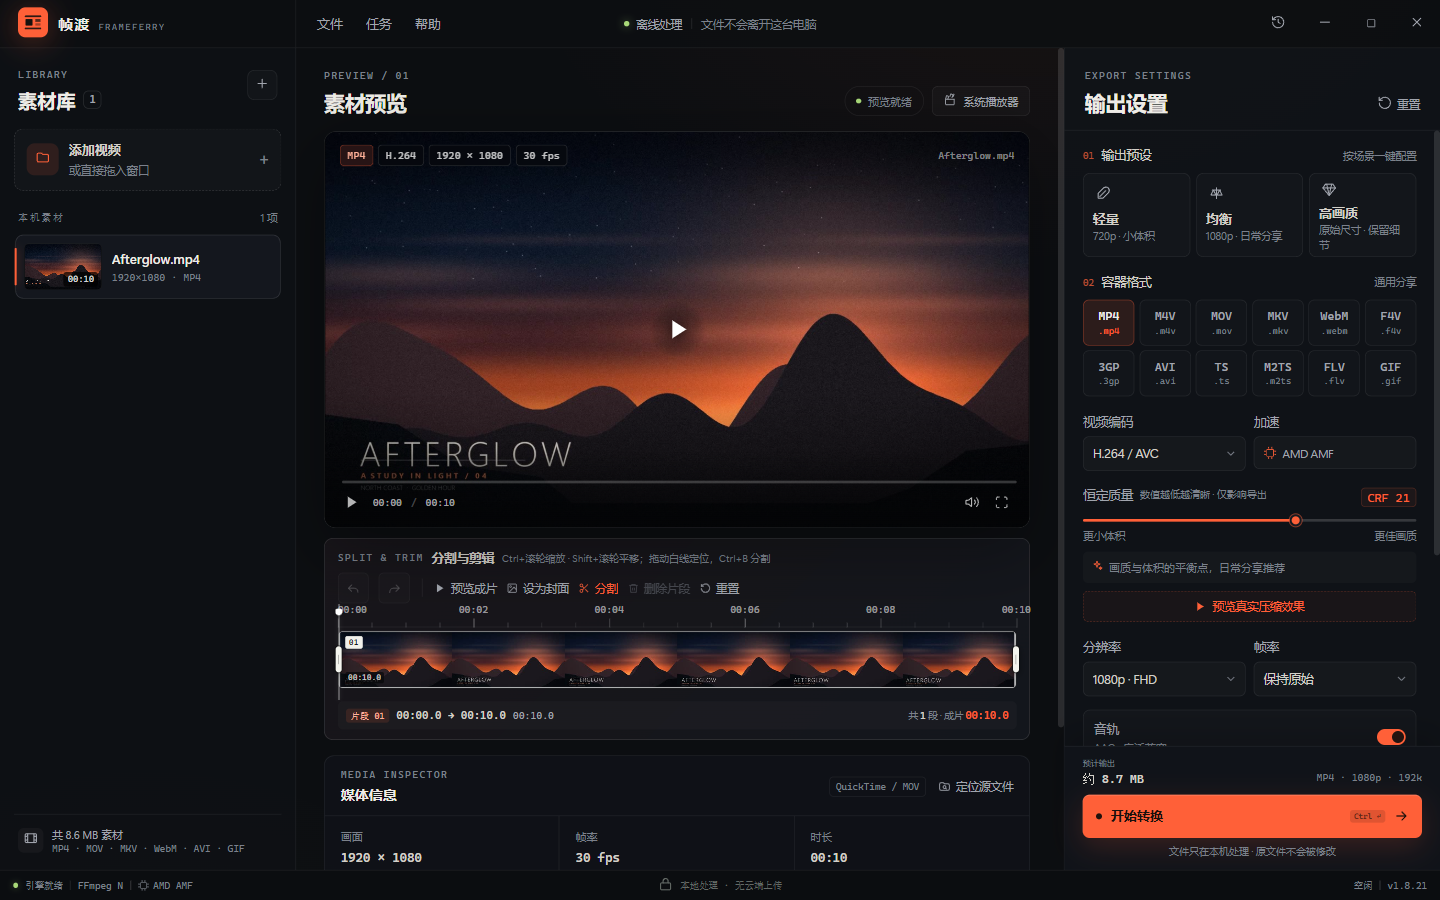
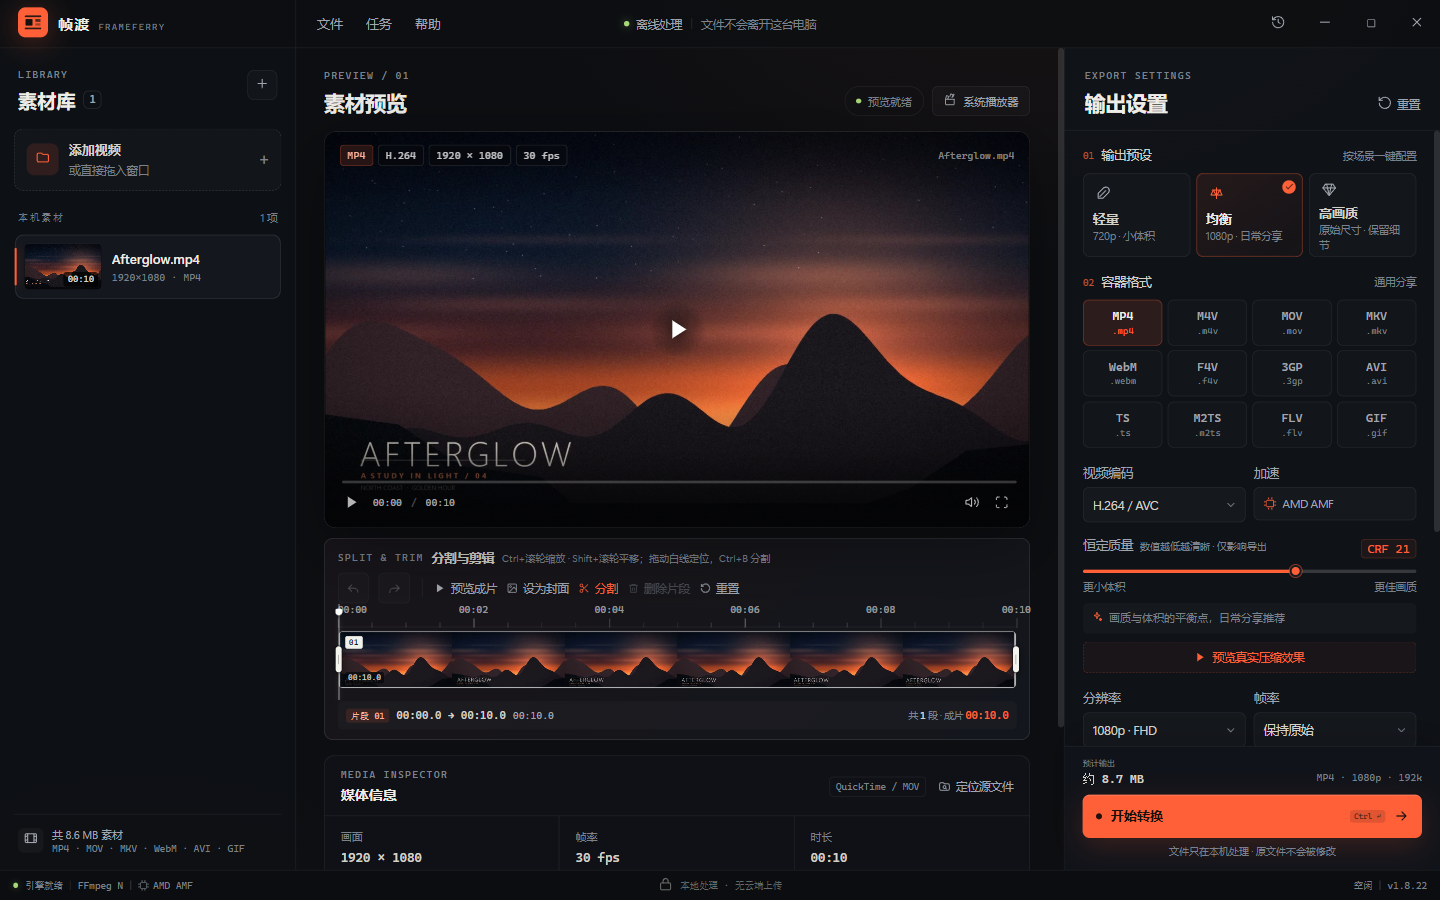
style: 格式网格改为三行
12 个格式按钮从 6 列两行改为 4 列三行，按钮更宽。版本提升到 v1.8.22。

diff --git a/renderer/styles.css b/renderer/styles.css
@@ -1656,7 +1656,7 @@ input:focus-visible {
 
 .format-row {
   display: grid;
-  grid-template-columns: repeat(6, 1fr);
+  grid-template-columns: repeat(4, 1fr);
   gap: 5px;
 }
 

diff --git a/docs/TEST_REPORT.md b/docs/TEST_REPORT.md
@@ -182,7 +182,7 @@
 | 格式切换 | 选 M4V 时 faststart=true、AAC；选 AVI/TS/FLV 时 faststart=false、AAC；输出扩展名同步 |
 | 更多容器 | 3GP/F4V 输出 H.264+AAC；M2TS 输出 H.264+AAC，支持 H.265 |
 | 新容器校验 | ffprobe 识别 3gp、f4v（mov/mp4 族）、m2ts（mpegts），音视频流正常 |
-| 格式网格 | 12 个格式按钮按 6 列两行排布，3GP/F4V/M2TS 可正常切换并更新输出扩展名 |
+| 格式网格 | 12 个格式按钮按 4 列三行排布，按钮宽度增加；3GP/F4V/M2TS 可正常切换并更新输出扩展名 |
 | Ctrl+滚轮缩放 | 1.25x 后可视 8.8s，标尺重排为 00:02/04/06/08；缩略图同步拉长 |
 | Shift+滚轮平移 | 向右平移后视图起点 2.2s，标尺变为 00:04–00:10 |
 | 横向滚动条 | 缩放后出现滑块，宽度按可视比例计算；点击轨道右侧后起点 2.2s，标尺变为 00:04–00:10 |
